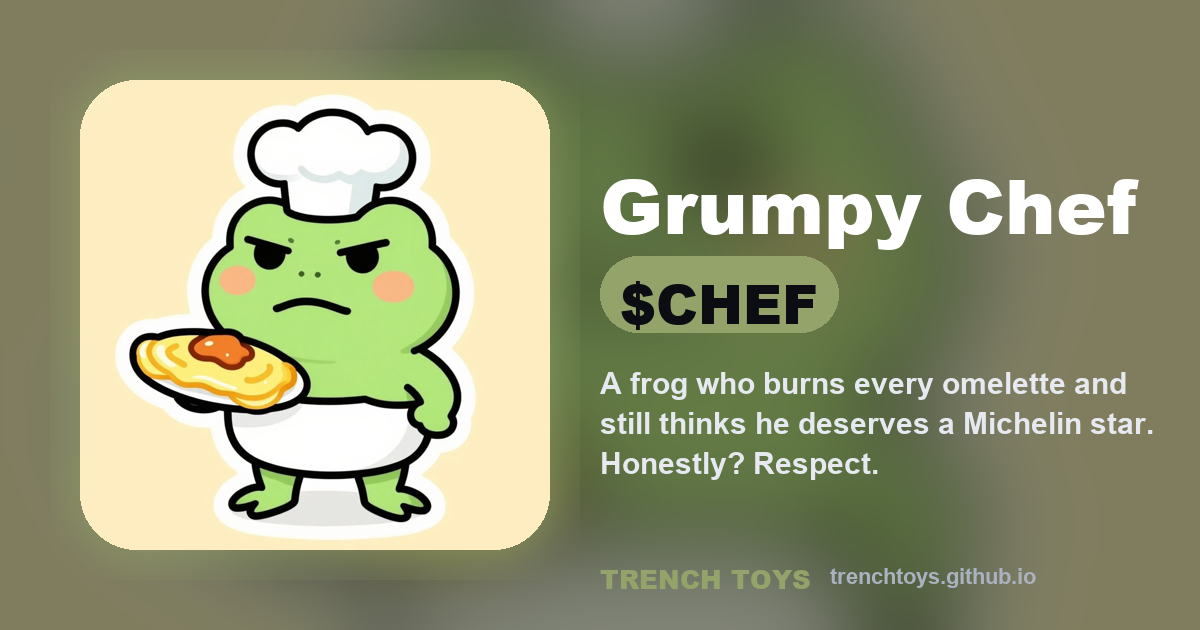
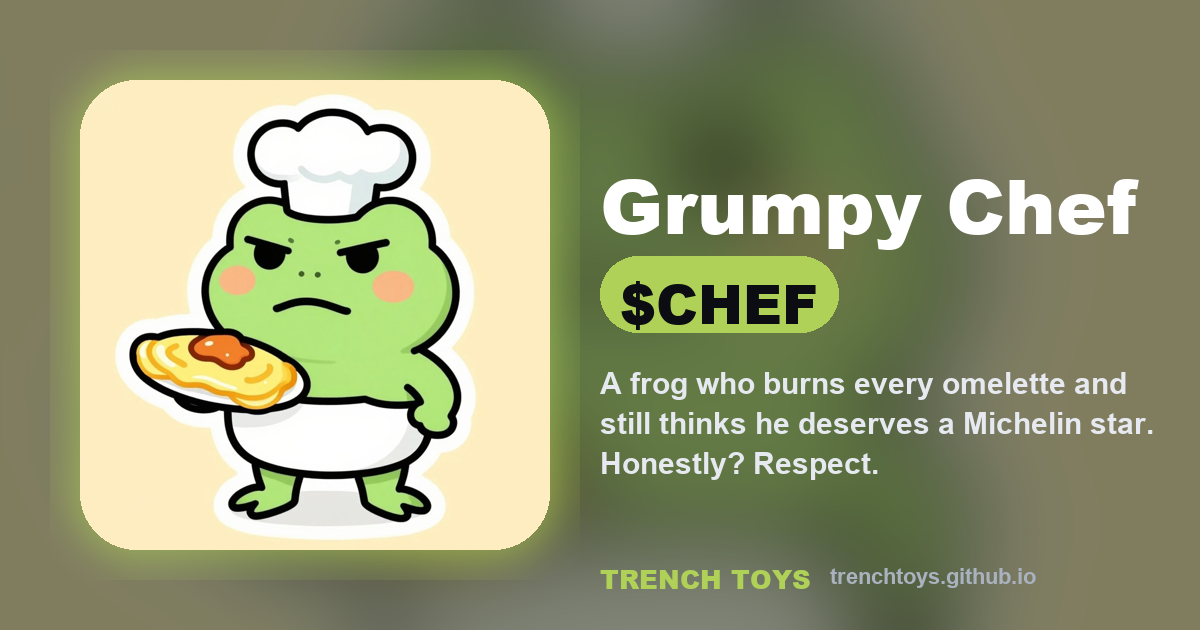
preview Grumpy Chef

Changed region(s): [[0.4933, 0.3921, 0.7092, 0.5429], [0.4933, 0.9048, 0.6783, 0.9349]]

diff --git a/c/preview-chef-test/index.html b/c/preview-chef-test/index.html
@@ -2,55 +2,130 @@
 <title>Grumpy Chef ($CHEF) · Trench Toys</title><meta name="description" content="A frog who burns every omelette and still thinks he deserves a Michelin star. Honestly? Respect.">
 <meta property="og:type" content="website"><meta property="og:title" content="Grumpy Chef ($CHEF)"><meta property="og:description" content="A frog who burns every omelette and still thinks he deserves a Michelin star. Honestly? Respect.">
 <meta property="og:image" content="https://trenchtoys.github.io/c/preview-chef-test/og.png"><meta property="og:url" content="https://trenchtoys.github.io/c/preview-chef-test/">
-<meta name="twitter:card" content="summary_large_image"><meta name="twitter:title" content="Grumpy Chef ($CHEF)"><meta name="twitter:description" content="A frog who burns every omelette and still thinks he deserves a Michelin star. Honestly? Respect.">
-<meta name="twitter:image" content="https://trenchtoys.github.io/c/preview-chef-test/og.png"><meta name="theme-color" content="#333924"><link rel="icon" href="img_0_shine.gif">
-<link rel="preconnect" href="https://fonts.googleapis.com"><link rel="preconnect" href="https://fonts.gstatic.com" crossorigin>
-<link href="https://fonts.googleapis.com/css2?family=Bricolage+Grotesque:opsz,wght@12..96,500;12..96,800&family=JetBrains+Mono:wght@500&display=swap" rel="stylesheet">
+<meta name="twitter:card" content="summary_large_image"><meta name="twitter:image" content="https://trenchtoys.github.io/c/preview-chef-test/og.png"><meta name="theme-color" content="#333924">
+<link rel="icon" href="img_0.jpg"><link rel="preconnect" href="https://fonts.gstatic.com" crossorigin>
+<link href="https://fonts.googleapis.com/css2?family=Bricolage+Grotesque:opsz,wght@12..96,600;12..96,800&family=JetBrains+Mono:wght@500&family=Anton&display=swap" rel="stylesheet">
 <style>
-:root{--acc:#93a369;--dark:#333924;--txt:#f4f6fa;--dim:#b7bfcc}
-*{box-sizing:border-box}html,body{margin:0;min-height:100%;background:var(--dark);color:var(--txt);font:16px/1.5 "Bricolage Grotesque",system-ui,-apple-system,Segoe UI,sans-serif;-webkit-font-smoothing:antialiased}
-.bg{position:fixed;inset:-10%;background:url(img_0_shine.gif) center/cover;filter:blur(60px) saturate(1.4);opacity:.35;transform:scale(1.2);z-index:-2}
-.bg2{position:fixed;inset:0;background:radial-gradient(1200px 700px at 70% 10%,color-mix(in srgb,var(--acc) 30%,transparent),transparent 60%),linear-gradient(180deg,transparent,var(--dark) 85%);z-index:-1}
-.dots span{position:fixed;width:10px;height:10px;border-radius:50%;background:var(--acc);opacity:.18;animation:fl 14s linear infinite;z-index:-1}
-@keyframes fl{from{transform:translateY(110vh) scale(.6)}to{transform:translateY(-20vh) scale(1.3)}}
-main{max-width:980px;margin:0 auto;padding:clamp(18px,4vw,48px) 18px 60px}
-nav{display:flex;align-items:center;gap:10px;margin-bottom:clamp(16px,4vw,40px)}nav a{color:var(--dim);text-decoration:none;font-weight:600}nav .sp{flex:1}
-.hero{display:grid;grid-template-columns:minmax(0,420px) 1fr;gap:clamp(20px,5vw,56px);align-items:center}
-@media(max-width:760px){.hero{grid-template-columns:1fr;text-align:center}.cta,.stats{justify-content:center}}
-.art{position:relative;aspect-ratio:1;border-radius:36px;overflow:hidden;box-shadow:0 30px 80px rgba(0,0,0,.55),0 0 0 1px rgba(255,255,255,.08),0 0 120px color-mix(in srgb,var(--acc) 40%,transparent);transform-style:preserve-3d;transition:transform .15s}
-.art img{width:100%;height:100%;object-fit:cover;display:block}
-h1{font-size:clamp(44px,8vw,84px);line-height:.95;margin:0 0 14px;letter-spacing:-1.5px;font-weight:800}
-.tk{display:inline-block;background:var(--acc);color:#0b0d12;font-weight:800;font-size:22px;padding:6px 16px;border-radius:999px;margin-bottom:16px}
-.line{font-size:clamp(17px,2.2vw,21px);color:var(--dim);margin:0 0 22px;max-width:520px}
-.ca{display:flex;align-items:center;gap:10px;background:rgba(0,0,0,.35);border:1px solid rgba(255,255,255,.12);border-radius:14px;padding:10px 12px;font:500 13px "JetBrains Mono",monospace;cursor:pointer;max-width:520px;word-break:break-all}
-.ca b{font-family:inherit;color:var(--acc)}.ca:hover{border-color:var(--acc)}
-.cta{display:flex;flex-wrap:wrap;gap:10px;margin-top:18px}
-.btn{display:inline-flex;align-items:center;gap:8px;padding:13px 20px;border-radius:14px;font-weight:800;text-decoration:none;color:var(--txt);background:rgba(255,255,255,.08);border:1px solid rgba(255,255,255,.14);transition:transform .12s,background .12s}
-.btn:hover{transform:translateY(-2px);background:rgba(255,255,255,.14)}.btn.pri{background:var(--acc);color:#0b0d12;border:0;box-shadow:0 10px 30px color-mix(in srgb,var(--acc) 45%,transparent)}
-.btn svg{width:18px;height:18px}
-.stats{display:flex;flex-wrap:wrap;gap:10px;margin-top:22px}.stat{background:rgba(0,0,0,.3);border:1px solid rgba(255,255,255,.1);border-radius:14px;padding:10px 14px;min-width:120px}
-.stat small{display:block;color:var(--dim);font-size:12px;text-transform:uppercase;letter-spacing:.6px}.stat b{font-size:20px}
-section{margin-top:clamp(40px,7vw,80px)}h2{font-size:28px;margin:0 0 16px}
-.src{display:flex;justify-content:center}.gal{display:grid;grid-template-columns:repeat(auto-fill,minmax(180px,1fr));gap:12px}.gal img{width:100%;border-radius:18px;aspect-ratio:1;object-fit:cover}
+:root{--acc:#b0d158;--dark:#333924;--bg2:#05060a;--txt:#f4f6fa;--dim:#b9c1cd;--rad:26px;--glow:1.0}
+*{box-sizing:border-box}html,body{margin:0;background:var(--bg2);color:var(--txt);font:16px/1.5 'Bricolage Grotesque',system-ui,-apple-system,Segoe UI,sans-serif;-webkit-font-smoothing:antialiased;overflow-x:hidden}
+.bg{position:fixed;inset:-10%;background:url(img_0.jpg) center/cover;filter:blur(70px) saturate(1.5);opacity:.33;transform:scale(1.25);z-index:-3}
+.bg2{position:fixed;inset:0;background:radial-gradient(1100px 700px at 75% 5%,color-mix(in srgb,var(--acc) 34%,transparent),transparent 60%),radial-gradient(900px 600px at 0% 100%,color-mix(in srgb,var(--acc) 18%,transparent),transparent 60%),linear-gradient(180deg,transparent,var(--bg2) 85%);z-index:-2}
+#fx{position:fixed;inset:0;pointer-events:none;z-index:60}
+.marq{display:none;overflow:hidden;white-space:nowrap;background:var(--acc);color:#0b0d12;font-weight:800;padding:6px 0}.marq span{display:inline-block;animation:mq 18s linear infinite}@keyframes mq{to{transform:translateX(-50%)}}
+main{max-width:1040px;margin:0 auto;padding:clamp(16px,4vw,44px) 16px 60px}
+nav{display:flex;align-items:center;gap:12px;margin-bottom:clamp(14px,4vw,34px)}nav a{color:var(--dim);text-decoration:none;font-weight:700}nav .sp{flex:1}
+.hero{display:grid;grid-template-columns:minmax(0,420px) 1fr;gap:clamp(22px,5vw,60px);align-items:center}
+@media(max-width:780px){.hero{grid-template-columns:1fr;text-align:center}.cta,.stats{justify-content:center}.ca{margin:0 auto}.line{margin-left:auto;margin-right:auto}}
+.stage{aspect-ratio:1;perspective:1100px;display:grid;place-items:center;touch-action:pan-y;cursor:grab}
+.coin{width:86%;aspect-ratio:1;position:relative;transform-style:preserve-3d;will-change:transform}
+.face{position:absolute;inset:0;border-radius:50%;backface-visibility:hidden;overflow:hidden;border:10px solid color-mix(in srgb,var(--acc) 80%,#fff 20%);box-shadow:0 0 calc(80px*var(--glow)) color-mix(in srgb,var(--acc) 55%,transparent),inset 0 0 40px rgba(0,0,0,.35)}
+.face img{width:100%;height:100%;object-fit:cover;display:block}
+.back{transform:rotateY(180deg);background:radial-gradient(circle at 30% 25%,#fff8,transparent 40%),linear-gradient(135deg,var(--acc),color-mix(in srgb,var(--acc) 45%,#000));display:grid;place-items:center;font:900 clamp(30px,7vw,60px) Anton,sans-serif;color:#0b0d12;letter-spacing:1px}
+.edge{position:absolute;inset:0;border-radius:50%;transform:translateZ(-6px);background:color-mix(in srgb,var(--acc) 50%,#000)}
+.card{width:100%;aspect-ratio:1;border-radius:var(--rad);overflow:hidden;box-shadow:0 30px 90px rgba(0,0,0,.55),0 0 calc(120px*var(--glow)) color-mix(in srgb,var(--acc) 45%,transparent)}
+.card img{width:100%;height:100%;object-fit:cover;display:block}.float .card{animation:bob 4.5s ease-in-out infinite}@keyframes bob{50%{transform:translateY(-14px) rotate(1.5deg)}}
+.glitch .card{position:relative}.glitch .card::before,.glitch .card::after{content:'';position:absolute;inset:0;background:url(img_0_shine.gif) center/cover;mix-blend-mode:screen;opacity:.55;animation:gl 2.6s steps(2) infinite}
+.glitch .card::before{filter:hue-rotate(90deg);animation-delay:-.4s}@keyframes gl{0%,92%,100%{transform:none;clip-path:inset(0 0 0 0)}93%{transform:translate(-6px,2px);clip-path:inset(20% 0 50% 0)}96%{transform:translate(5px,-3px);clip-path:inset(60% 0 10% 0)}}
+h1{font-size:clamp(42px,8vw,86px);line-height:.95;margin:0 0 14px;letter-spacing:-1.5px;font-weight:800}
+.tk{display:inline-block;background:var(--acc);color:#0b0d12;font-weight:900;font-size:22px;padding:6px 16px;border-radius:999px;margin-bottom:14px}
+.line{font-size:clamp(17px,2.2vw,21px);color:var(--dim);margin:0 0 20px;max-width:540px}
+.ca{display:flex;align-items:center;gap:10px;background:rgba(0,0,0,.38);border:1px solid rgba(255,255,255,.13);border-radius:14px;padding:10px 12px;font:500 13px "JetBrains Mono",monospace;cursor:pointer;max-width:540px;word-break:break-all}.ca b{color:var(--acc)}.ca:hover{border-color:var(--acc)}
+.cta{display:flex;flex-wrap:wrap;gap:10px;margin-top:16px}
+.btn{display:inline-flex;align-items:center;gap:8px;padding:13px 20px;border-radius:14px;font-weight:800;text-decoration:none;color:var(--txt);background:rgba(255,255,255,.08);border:1px solid rgba(255,255,255,.15);transition:transform .12s,background .12s;cursor:pointer;font-family:inherit;font-size:15px}
+.btn:hover{transform:translateY(-2px);background:rgba(255,255,255,.15)}.btn.pri{background:var(--acc);color:#0b0d12;border:0;box-shadow:0 10px 34px color-mix(in srgb,var(--acc) 50%,transparent)}.btn svg{width:18px;height:18px}
+.meter{margin-top:20px;max-width:540px}.meter .bar{height:16px;border-radius:999px;background:rgba(255,255,255,.08);overflow:hidden;border:1px solid rgba(255,255,255,.1)}
+.meter i{display:block;height:100%;width:0;background:linear-gradient(90deg,color-mix(in srgb,var(--acc) 60%,#fff 0%),var(--acc));box-shadow:0 0 24px var(--acc);transition:width 1.2s cubic-bezier(.2,.8,.2,1)}
+.meter .lab{display:flex;justify-content:space-between;font-size:13px;color:var(--dim);margin-bottom:6px}
+.stats{display:flex;flex-wrap:wrap;gap:10px;margin-top:16px}.stat{background:rgba(0,0,0,.32);border:1px solid rgba(255,255,255,.1);border-radius:14px;padding:10px 14px;min-width:118px}
+.stat small{display:block;color:var(--dim);font-size:11.5px;text-transform:uppercase;letter-spacing:.6px}.stat b{font-size:20px}
+section{margin-top:clamp(44px,7vw,84px)}h2{font-size:clamp(24px,3.4vw,32px);margin:0 0 16px}
+.panel{background:rgba(0,0,0,.3);border:1px solid rgba(255,255,255,.1);border-radius:var(--rad);padding:16px}
+.two{display:grid;grid-template-columns:1fr 1fr;gap:18px}@media(max-width:780px){.two{grid-template-columns:1fr}}
+canvas{max-width:100%;border-radius:calc(var(--rad)*.6);display:block;margin:0 auto;touch-action:none;background:#0006}
+.row{display:flex;gap:8px;flex-wrap:wrap;margin-top:10px;justify-content:center}.row input{flex:1;min-width:120px;background:rgba(0,0,0,.4);color:var(--txt);border:1px solid rgba(255,255,255,.15);border-radius:10px;padding:10px;font:inherit}
+.thumbs{display:flex;gap:6px;justify-content:center;margin-top:8px;flex-wrap:wrap}.thumbs img{width:46px;height:46px;border-radius:10px;object-fit:cover;cursor:pointer;opacity:.6}.thumbs img.on{opacity:1;outline:2px solid var(--acc)}
+.gal{display:grid;grid-template-columns:repeat(auto-fill,minmax(170px,1fr));gap:12px}.gal img{width:100%;border-radius:18px;aspect-ratio:1;object-fit:cover}
 footer{margin-top:60px;color:var(--dim);font-size:13px;text-align:center;line-height:1.7}footer a{color:var(--txt)}
-.toast{position:fixed;left:50%;bottom:28px;transform:translateX(-50%) translateY(120px);background:var(--acc);color:#0b0d12;font-weight:800;padding:12px 20px;border-radius:999px;transition:transform .25s}.toast.on{transform:translateX(-50%) translateY(0)}
-</style></head><body><div class="bg"></div><div class="bg2"></div><div class="dots"><span style="left:0%;animation-delay:-0.0s;width:6px;height:6px"></span><span style="left:37%;animation-delay:-1.7s;width:10px;height:10px"></span><span style="left:74%;animation-delay:-3.4s;width:14px;height:14px"></span><span style="left:11%;animation-delay:-5.1s;width:18px;height:18px"></span><span style="left:48%;animation-delay:-6.8s;width:6px;height:6px"></span><span style="left:85%;animation-delay:-8.5s;width:10px;height:10px"></span><span style="left:22%;animation-delay:-10.2s;width:14px;height:14px"></span><span style="left:59%;animation-delay:-11.9s;width:18px;height:18px"></span><span style="left:96%;animation-delay:-13.6s;width:6px;height:6px"></span><span style="left:33%;animation-delay:-15.3s;width:10px;height:10px"></span><span style="left:70%;animation-delay:-17.0s;width:14px;height:14px"></span><span style="left:7%;animation-delay:-18.7s;width:18px;height:18px"></span><span style="left:44%;animation-delay:-20.4s;width:6px;height:6px"></span><span style="left:81%;animation-delay:-22.1s;width:10px;height:10px"></span></div>
-<main><nav><a href="https://trenchtoys.github.io/">← Trench Toys</a><span class="sp"></span></nav>
-<div class="hero"><div class="art" id="art"><img src="img_0_shine.gif" alt="Grumpy Chef"></div>
+.toast{position:fixed;left:50%;bottom:28px;transform:translateX(-50%) translateY(140px);background:var(--acc);color:#0b0d12;font-weight:900;padding:12px 22px;border-radius:999px;transition:transform .25s;z-index:70}.toast.on{transform:translateX(-50%) translateY(0)}
+.grad{display:none;margin-top:14px;font-weight:900;font-size:20px;color:var(--acc)}
+
+</style></head><body class="coin3d"><div class="bg"></div><div class="bg2"></div><canvas id="fx"></canvas>
+<div class="marq"><span>$CHEF · Grumpy Chef · $CHEF · Grumpy Chef · $CHEF · Grumpy Chef · $CHEF · Grumpy Chef · $CHEF · Grumpy Chef · $CHEF · Grumpy Chef ·  $CHEF · Grumpy Chef · $CHEF · Grumpy Chef · $CHEF · Grumpy Chef · $CHEF · Grumpy Chef · $CHEF · Grumpy Chef · $CHEF · Grumpy Chef · </span></div>
+<main><nav><a href="https://trenchtoys.github.io/">← Trench Toys</a><span class="sp"></span><a href="https://x.com/trenchtoysfun" target="_blank" rel="noopener">𝕏</a></nav>
+<div class="hero"><div class="stage" id="stage"><div class="coin"><div class="edge"></div><div class="face"><img src="img_0_shine.gif" alt="Grumpy Chef"></div><div class="face back">$CHEF</div></div></div>
 <div><h1>Grumpy Chef</h1><div class="tk">$CHEF</div><p class="line">A frog who burns every omelette and still thinks he deserves a Michelin star. Honestly? Respect.</p>
-<div class="ca" id="ca" title="tap to copy"><b>CA</b>8xTestNotARealMint1111111111111111111111pump</div>
-<div class="cta"><a class="btn pri" href="https://pump.fun/coin/8xTestNotARealMint1111111111111111111111pump" target="_blank" rel="noopener"><svg viewBox="0 0 24 24" fill="currentColor"><path d="M13 2 4 14h7l-1 8 9-12h-7l1-8z"/></svg>Buy on pump.fun</a><a class="btn " href="https://dexscreener.com/solana/8xTestNotARealMint1111111111111111111111pump" target="_blank" rel="noopener"><svg viewBox="0 0 24 24" fill="none" stroke="currentColor" stroke-width="2.4"><path d="M3 17l6-6 4 4 8-8"/><path d="M15 7h6v6"/></svg>Chart</a><a class="btn " href="https://t.me/trenchtoysfun" target="_blank" rel="noopener"><svg viewBox="0 0 24 24" fill="currentColor"><path d="M21.9 4.3 18.7 19.5c-.2 1-.9 1.3-1.8.8l-4.9-3.6-2.4 2.3c-.3.3-.5.5-1 .5l.3-5 9.2-8.3c.4-.4-.1-.6-.6-.2L6.2 13.2l-4.9-1.5c-1-.3-1.1-1 .2-1.5L20.6 2.9c.9-.3 1.6.2 1.3 1.4z"/></svg>Telegram</a></div>
-<div class="stats" id="stats"><div class="stat"><small>market cap</small><b id="mc">–</b></div><div class="stat"><small>24h volume</small><b id="vol">–</b></div><div class="stat"><small>24h</small><b id="chg">–</b></div></div>
+<div class="ca" id="ca" title="tap to copy"><b>CA</b>CUcPJ9vRfAj8qsRqbuQsSqgDDm1WrCxQB7mWFoH3pump</div>
+<div class="cta"><a class="btn pri" href="https://pump.fun/coin/CUcPJ9vRfAj8qsRqbuQsSqgDDm1WrCxQB7mWFoH3pump" target="_blank" rel="noopener"><svg viewBox="0 0 24 24" fill="currentColor"><path d="M13 2 4 14h7l-1 8 9-12h-7l1-8z"/></svg>Buy on pump.fun</a><a class="btn " href="https://dexscreener.com/solana/CUcPJ9vRfAj8qsRqbuQsSqgDDm1WrCxQB7mWFoH3pump" target="_blank" rel="noopener"><svg viewBox="0 0 24 24" fill="none" stroke="currentColor" stroke-width="2.4"><path d="M3 17l6-6 4 4 8-8"/><path d="M15 7h6v6"/></svg>Chart</a><a class="btn " href="https://x.com/trenchtoysfun" target="_blank" rel="noopener"><svg viewBox="0 0 24 24" fill="currentColor"><path d="M18.9 2H22l-7.5 8.6L23 22h-6.8l-5.3-6.9L4.8 22H1.7l8-9.2L1 2h7l4.8 6.3L18.9 2zm-1.2 18h1.9L7.3 3.9H5.3L17.7 20z"/></svg>X</a><a class="btn " href="https://t.me/trenchtoysfun" target="_blank" rel="noopener"><svg viewBox="0 0 24 24" fill="currentColor"><path d="M21.9 4.3 18.7 19.5c-.2 1-.9 1.3-1.8.8l-4.9-3.6-2.4 2.3c-.3.3-.5.5-1 .5l.3-5 9.2-8.3c.4-.4-.1-.6-.6-.2L6.2 13.2l-4.9-1.5c-1-.3-1.1-1 .2-1.5L20.6 2.9c.9-.3 1.6.2 1.3 1.4z"/></svg>Telegram</a></div>
+<div class="meter"><div class="lab"><span>🚀 bonding curve</span><span id="pct">–</span></div><div class="bar"><i id="fill"></i></div></div>
+<div class="grad" id="grad">🎓 GRADUATED: it's on PumpSwap now</div>
+<div class="stats"><div class="stat"><small>market cap</small><b id="mc">–</b></div><div class="stat"><small>24h volume</small><b id="vol">–</b></div><div class="stat"><small>24h</small><b id="chg">–</b></div><div class="stat"><small>trades today</small><b id="tx">–</b></div></div>
 </div></div>
-<section><h2>Inspired by</h2><div class="src"><blockquote class="twitter-tweet" data-theme="dark"><a href="https://x.com/blknoiz06/status/2120384900800884854">post by @blknoiz06</a></blockquote></div></section><section><h2>Memes</h2><div class="gal"><img src="img_0_shine.gif" loading="lazy" alt=""><img src="img_0.jpg" loading="lazy" alt=""><img src="img_1.jpg" loading="lazy" alt=""></div></section>
-<footer>Made by <a href="https://trenchtoys.github.io/">Trench Toys</a>, a tiny meme studio.<br>A meme coin for fun: no team, no roadmap, no promises, not financial advice.<br>Not affiliated with @blknoiz06 or anyone mentioned.<br>The creator wallet bought 0.01 SOL at launch and may sell it.</footer></main>
+<section><div class="two">
+<div class="panel"><h2>🎮 Candle Catch: grab the greens, dodge the reds</h2><canvas id="game" width="360" height="480"></canvas><div class="row"><button class="btn pri" id="gstart">play</button><span class="btn" id="gbest">best 0</span></div></div>
+<div class="panel"><h2>🖼 Meme maker</h2><canvas id="meme" width="600" height="600"></canvas><div class="thumbs" id="thumbs"></div>
+<div class="row"><input id="mt" placeholder="top text" maxlength="40"><input id="mb" placeholder="bottom text" maxlength="40"></div><div class="row"><button class="btn pri" id="mdl">download meme</button></div></div>
+</div></section>
+<section><h2>Inspired by</h2><div style="display:flex;justify-content:center"><blockquote class="twitter-tweet" data-theme="dark"><a href="https://x.com/blknoiz06/status/2120384900800884854">post by @blknoiz06</a></blockquote></div></section><section><h2>Memes</h2><div class="gal"><img src="img_0_shine.gif" loading="lazy" alt=""><img src="img_0.jpg" loading="lazy" alt=""><img src="img_1.jpg" loading="lazy" alt=""></div></section>
+<footer>Made by <a href="https://trenchtoys.github.io/">Trench Toys</a>, a tiny meme studio.<br>A meme coin for fun: no team, no roadmap, no promises, not financial advice.<br>Not affiliated with @blknoiz06 or anyone mentioned.<br>The creator wallet bought 0.05 SOL at launch and may sell it.</footer></main>
 <div class="toast" id="toast">copied</div>
 <script>
-const CA="8xTestNotARealMint1111111111111111111111pump";
-document.getElementById("ca").onclick=()=>{if(!CA)return;navigator.clipboard.writeText(CA);const t=document.getElementById("toast");t.classList.add("on");setTimeout(()=>t.classList.remove("on"),1400)};
-const a=document.getElementById("art");addEventListener("pointermove",e=>{const r=a.getBoundingClientRect(),x=(e.clientX-r.left)/r.width-.5,y=(e.clientY-r.top)/r.height-.5;a.style.transform=`perspective(900px) rotateY(${x*10}deg) rotateX(${-y*10}deg)`});
-const fmt=n=>n==null?"–":n>=1e6?"$"+(n/1e6).toFixed(2)+"M":n>=1e3?"$"+(n/1e3).toFixed(1)+"K":"$"+Math.round(n);
-async function live(){if(!CA)return;try{const j=await (await fetch("https://api.dexscreener.com/latest/dex/tokens/"+CA)).json();const p=(j.pairs||[]).sort((a,b)=>(b.liquidity?.usd||0)-(a.liquidity?.usd||0))[0];
- if(p){document.getElementById("mc").textContent=fmt(p.marketCap||p.fdv);document.getElementById("vol").textContent=fmt(p.volume?.h24);const c=p.priceChange?.h24;const el=document.getElementById("chg");el.textContent=c==null?"–":(c>0?"+":"")+c.toFixed(0)+"%";el.style.color=c>=0?"#3ee08f":"#ff6b81"}}catch(e){}}
-live();setInterval(live,20000);
+const CA="CUcPJ9vRfAj8qsRqbuQsSqgDDm1WrCxQB7mWFoH3pump",BC="Abi5K2Zhw4eXfukvuMJ4nu9tTHs7S6cPK5rYWCWkrxkn",TK="CHEF",IMGS=["img_0_shine.gif", "img_0.jpg", "img_1.jpg"],GAME="catch",STILL="img_0.jpg";
+const $=id=>document.getElementById(id),toast=t=>{const e=$("toast");e.textContent=t;e.classList.add("on");setTimeout(()=>e.classList.remove("on"),1500)};
+$("ca").onclick=()=>{if(!CA)return;navigator.clipboard.writeText(CA);toast("CA copied");burst(innerWidth/2,innerHeight*.6,40)};
+/* ---- confetti / fx ---- */
+const fx=$("fx"),fc=fx.getContext("2d");let P=[];function rs(){fx.width=innerWidth;fx.height=innerHeight}rs();addEventListener("resize",rs);
+const ACC=getComputedStyle(document.documentElement).getPropertyValue("--acc").trim()||"#7cf";
+function burst(x,y,n){for(let i=0;i<n;i++){const a=Math.random()*6.28,s=4+Math.random()*9;P.push({x,y,vx:Math.cos(a)*s,vy:Math.sin(a)*s-6,l:90+Math.random()*50,c:[ACC,"#fff","#ffd23f","#3ee08f"][i%4],r:3+Math.random()*4,w:Math.random()*6})}}
+(function loop(){fc.clearRect(0,0,fx.width,fx.height);P=P.filter(p=>p.l-->0);for(const p of P){p.vy+=.28;p.x+=p.vx;p.y+=p.vy;p.w+=.2;fc.save();fc.translate(p.x,p.y);fc.rotate(p.w);fc.fillStyle=p.c;fc.fillRect(-p.r,-p.r/2,p.r*2,p.r);fc.restore()}requestAnimationFrame(loop)})();
+document.querySelectorAll(".btn.pri").forEach(b=>b.addEventListener("click",e=>burst(e.clientX,e.clientY,26)));
+/* ---- hero: draggable spinning coin ---- */
+const coin=document.querySelector(".coin");if(coin){let ang=0,vel=0.6,drag=false,lx=0;const st=$("stage");
+ st.addEventListener("pointerdown",e=>{drag=true;lx=e.clientX;st.setPointerCapture(e.pointerId)});st.addEventListener("pointermove",e=>{if(!drag)return;vel=(e.clientX-lx)*.6;lx=e.clientX});
+ st.addEventListener("pointerup",()=>drag=false);(function spin(){ang+=vel;if(!drag)vel+= (0.6-vel)*.02;coin.style.transform=`rotateY(${ang}deg) rotateX(${Math.sin(ang/90)*8}deg)`;requestAnimationFrame(spin)})()}
+else{const c=document.querySelector(".card");addEventListener("pointermove",e=>{if(!c)return;const r=c.getBoundingClientRect(),x=(e.clientX-r.left)/r.width-.5,y=(e.clientY-r.top)/r.height-.5;c.style.transform=`perspective(900px) rotateY(${x*12}deg) rotateX(${-y*12}deg)`})}
+/* ---- live data: bonding curve (public RPC) + DexScreener ---- */
+const fmt=n=>n==null?"–":n>=1e6?"$"+(n/1e6).toFixed(2)+"M":n>=1e3?"$"+(n/1e3).toFixed(1)+"K":"$"+Math.round(n);let gradShown=false;
+function u64(b,o){let v=0n;for(let i=7;i>=0;i--)v=(v<<8n)+BigInt(b[o+i]);return Number(v)}
+async function curve(){if(!BC)return;try{const r=await fetch("https://api.mainnet-beta.solana.com",{method:"POST",headers:{"Content-Type":"application/json"},body:JSON.stringify({jsonrpc:"2.0",id:1,method:"getAccountInfo",params:[BC,{encoding:"base64"}]})});
+ const j=await r.json(),d=j.result&&j.result.value;if(!d)return;const b=Uint8Array.from(atob(d.data[0]),c=>c.charCodeAt(0));const realTok=u64(b,24),complete=b[48]===1;
+ const pct=complete?100:Math.max(0,Math.min(100,100*(1-realTok/793100000e6)));$("fill").style.width=pct.toFixed(1)+"%";$("pct").textContent=complete?"100% 🎓":pct.toFixed(1)+"%";
+ if(complete&&!gradShown){gradShown=true;$("grad").style.display="block";for(let i=0;i<6;i++)setTimeout(()=>burst(Math.random()*innerWidth,innerHeight*.3,80),i*350)}}catch(e){}}
+async function dex(){if(!CA)return;try{const j=await (await fetch("https://api.dexscreener.com/latest/dex/tokens/"+CA)).json();const p=(j.pairs||[]).sort((a,b)=>(b.liquidity?.usd||0)-(a.liquidity?.usd||0))[0];
+ if(p){$("mc").textContent=fmt(p.marketCap||p.fdv);$("vol").textContent=fmt(p.volume?.h24);const c=p.priceChange?.h24;$("chg").textContent=c==null?"–":(c>0?"+":"")+c.toFixed(0)+"%";$("chg").style.color=c>=0?"#3ee08f":"#ff6b81";
+  const t=p.txns?.h24;if(t)$("tx").textContent=((t.buys||0)+(t.sells||0)).toLocaleString()}}catch(e){}}
+curve();dex();setInterval(curve,15000);setInterval(dex,20000);
+/* ---- meme maker ---- */
+const mc=$("meme"),mx=mc.getContext("2d");let mimg=new Image();mimg.crossOrigin="anonymous";
+function drawMeme(){mx.fillStyle="#000";mx.fillRect(0,0,600,600);if(mimg.complete)mx.drawImage(mimg,0,0,600,600);mx.textAlign="center";mx.lineJoin="round";
+ for(const[t,y,base]of[[$("mt").value,70,"top"],[$("mb").value,560,"bottom"]]){if(!t)continue;let s=64;mx.font=`${s}px Anton, Impact, sans-serif`;while(mx.measureText(t.toUpperCase()).width>560&&s>26){s-=4;mx.font=`${s}px Anton, Impact, sans-serif`}
+  mx.lineWidth=s/7;mx.strokeStyle="#000";mx.fillStyle="#fff";mx.textBaseline=base=="top"?"top":"bottom";mx.strokeText(t.toUpperCase(),300,base=="top"?24:576);mx.fillText(t.toUpperCase(),300,base=="top"?24:576)}}
+function useImg(src){mimg=new Image();mimg.crossOrigin="anonymous";mimg.onload=drawMeme;mimg.src=src;document.querySelectorAll("#thumbs img").forEach(i=>i.classList.toggle("on",i.dataset.s==src))}
+$("thumbs").innerHTML=IMGS.map(s=>`<img src="${s}" data-s="${s}">`).join("");$("thumbs").onclick=e=>{if(e.target.dataset.s)useImg(e.target.dataset.s)};
+$("mt").oninput=$("mb").oninput=drawMeme;useImg(IMGS[0]);
+$("mdl").onclick=()=>{const a=document.createElement("a");a.download=TK.toLowerCase()+"-meme.png";a.href=mc.toDataURL("image/png");a.click();toast("meme saved: post it!")};
+/* ---- mini-game ---- */
+const G=$("game"),g=G.getContext("2d"),W=360,H=480,spr=new Image();spr.src=STILL;let run=false,best=0;try{best=+localStorage.getItem("best_"+TK)||0}catch(e){}$("gbest").textContent="best "+best;
+let keys={},px=W/2;addEventListener("keydown",e=>keys[e.key]=1);addEventListener("keyup",e=>keys[e.key]=0);
+G.addEventListener("pointermove",e=>{const r=G.getBoundingClientRect();px=(e.clientX-r.left)/r.width*W});G.addEventListener("pointerdown",e=>{const r=G.getBoundingClientRect();px=(e.clientX-r.left)/r.width*W;tapped=true});
+let tapped=false;
+function over(score){run=false;if(score>best){best=score;try{localStorage.setItem("best_"+TK,best)}catch(e){};burst(innerWidth/2,innerHeight/2,90)}$("gbest").textContent="best "+best;
+ g.fillStyle="#000a";g.fillRect(0,0,W,H);g.fillStyle="#fff";g.textAlign="center";g.font="bold 30px sans-serif";g.fillText("score "+score,W/2,H/2-10);g.font="16px sans-serif";g.fillText("tap play to go again",W/2,H/2+22)}
+function sprite(x,y,s){g.save();g.beginPath();g.arc(x,y,s/2,0,6.28);g.closePath();g.clip();g.drawImage(spr,x-s/2,y-s/2,s,s);g.restore();g.strokeStyle=ACC;g.lineWidth=3;g.beginPath();g.arc(x,y,s/2,0,6.28);g.stroke()}
+function catchGame(){let items=[],score=0,lives=3,t=0,x=W/2;(function f(){if(!run)return;t++;if(keys.ArrowLeft)px-=7;if(keys.ArrowRight)px+=7;x+=(Math.max(24,Math.min(W-24,px))-x)*.3;
+ if(t%Math.max(12,34-Math.floor(score/6))==0)items.push({x:20+Math.random()*(W-40),y:-30,v:2.5+Math.random()*2+score/40,good:Math.random()<.62});
+ g.fillStyle="#0b0d12";g.fillRect(0,0,W,H);for(const it of items){it.y+=it.v;g.fillStyle=it.good?"#3ee08f":"#ff4d6d";g.fillRect(it.x-7,it.y-22,14,44);g.fillRect(it.x-1.5,it.y-32,3,64)}
+ items=items.filter(it=>{if(Math.abs(it.x-x)<34&&Math.abs(it.y-(H-50))<34){if(it.good){score++;burst(innerWidth/2,innerHeight/2,4)}else lives--;return false}return it.y<H+40});
+ sprite(x,H-50,64);g.fillStyle="#fff";g.font="bold 18px sans-serif";g.textAlign="left";g.fillText("score "+score+"   "+"❤".repeat(Math.max(0,lives)),12,26);if(lives<=0)return over(score);requestAnimationFrame(f)})()}
+function jumpGame(){let plats=[],y=H-80,vy=-11,x=W/2,cam=0,score=0;for(let i=0;i<9;i++)plats.push({x:Math.random()*(W-70),y:H-40-i*60});(function f(){if(!run)return;if(keys.ArrowLeft)px-=7;if(keys.ArrowRight)px+=7;x+=(px-x)*.18;if(x<-20)x=W+20;if(x>W+20)x=-20;
+ vy+=.42;y+=vy;if(vy>0)for(const p of plats){if(x>p.x-14&&x<p.x+84&&y+26>p.y&&y+26<p.y+14){vy=-11.5;burst(innerWidth/2,innerHeight/2,2)}}
+ if(y<H/2.4){const d=H/2.4-y;y+=d;cam+=d;for(const p of plats)p.y+=d;score=Math.floor(cam/10)}plats=plats.filter(p=>p.y<H+20);while(plats.length<9){const top=Math.min(...plats.map(p=>p.y));plats.push({x:Math.random()*(W-70),y:top-50-Math.random()*30})}
+ g.fillStyle="#070812";g.fillRect(0,0,W,H);for(let i=0;i<40;i++){g.fillStyle="#ffffff22";g.fillRect((i*97)%W,(i*53+cam*.3)%H,2,2)}for(const p of plats){g.fillStyle=ACC;g.fillRect(p.x,p.y,70,10)}
+ sprite(x,y,52);g.fillStyle="#fff";g.font="bold 18px sans-serif";g.textAlign="left";g.fillText("height "+score,12,26);if(y>H+40)return over(score);requestAnimationFrame(f)})()}
+function tapGame(){let pump=0,rug=0,lvl=1,score=0,t=0;tapped=false;(function f(){if(!run)return;t++;if(tapped){pump+=5.5;tapped=false}rug+=.35+lvl*.12;pump=Math.max(0,pump-.08);
+ if(pump>=100){lvl++;score+=lvl*10;pump=0;rug=0;burst(innerWidth/2,innerHeight/2,50)}g.fillStyle="#0b0d12";g.fillRect(0,0,W,H);sprite(W/2,150+Math.sin(t/6)*6*(pump/100),120);
+ g.fillStyle="#ffffff22";g.fillRect(40,300,W-80,26);g.fillStyle="#3ee08f";g.fillRect(40,300,(W-80)*pump/100,26);g.fillStyle="#ffffff22";g.fillRect(40,350,W-80,16);g.fillStyle="#ff4d6d";g.fillRect(40,350,(W-80)*Math.min(1,rug/100),16);
+ g.fillStyle="#fff";g.font="bold 18px sans-serif";g.textAlign="center";g.fillText("TAP to PUMP · level "+lvl+" · score "+score,W/2,420);g.fillText("pump",W/2,292);g.fillText("rug",W/2,388);if(rug>=100)return over(score);requestAnimationFrame(f)})()}
+G.addEventListener("pointerdown",()=>{});addEventListener("keydown",e=>{if(e.key===" "){tapped=true}});
+$("gstart").onclick=()=>{if(run)return;run=true;px=W/2;({catch:catchGame,jump:jumpGame,tap:tapGame}[GAME]||catchGame)()};
+spr.onload=()=>{g.fillStyle="#0b0d12";g.fillRect(0,0,W,H);sprite(W/2,H/2-30,140);g.fillStyle="#fff";g.textAlign="center";g.font="bold 18px sans-serif";g.fillText("press play",W/2,H/2+80)};
 </script><script async src="https://platform.twitter.com/widgets.js"></script></body></html>
